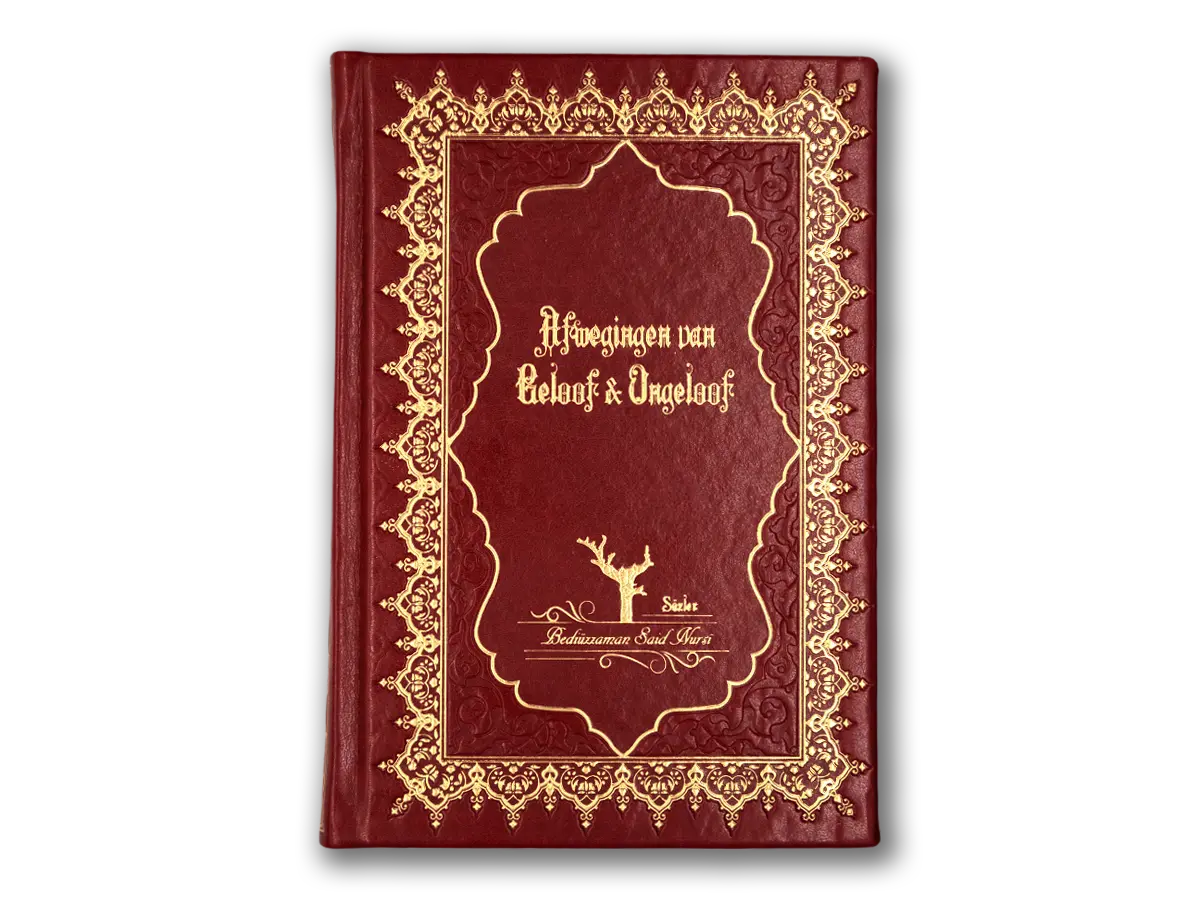
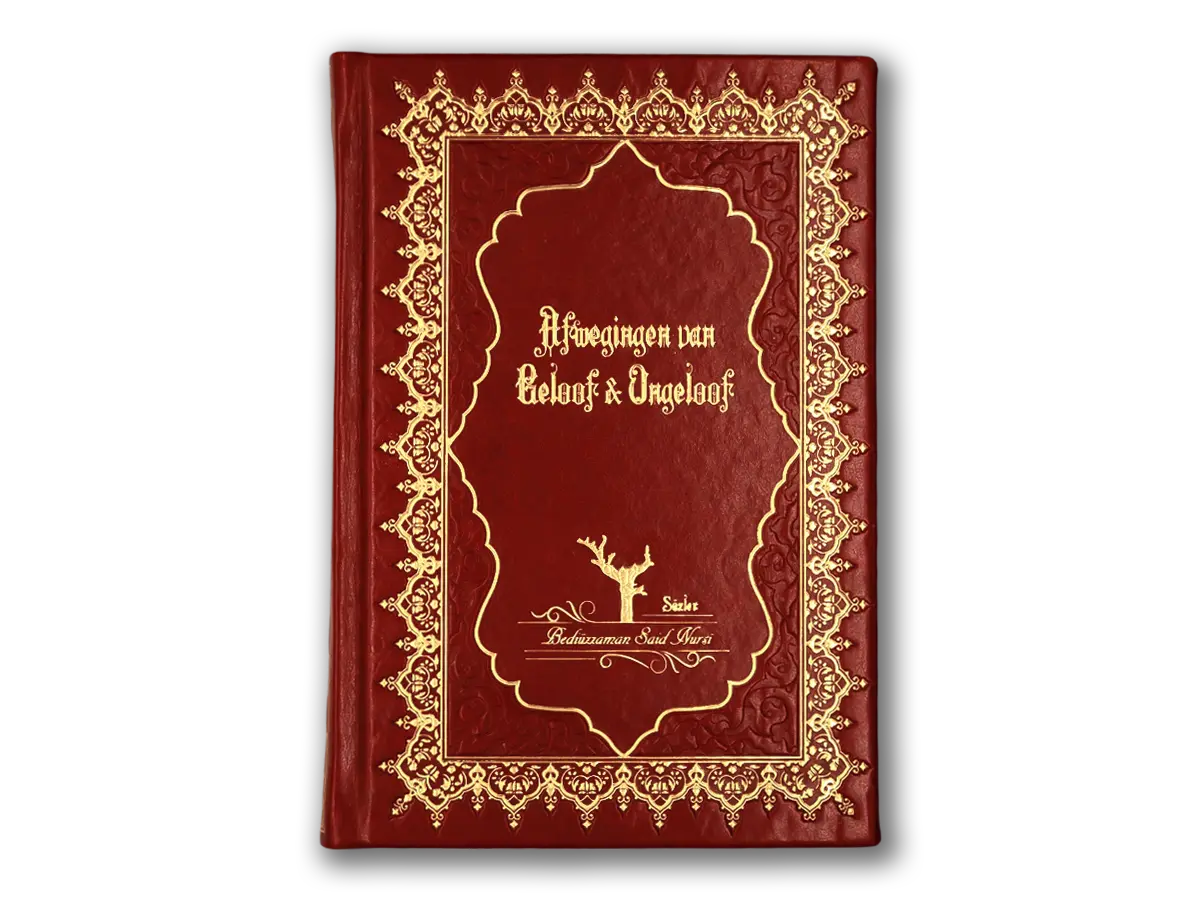
Added new book covers

Changed region(s): [[0.2775, 0.0622, 0.74, 0.9333], [0.4625, 0.1867, 0.4933, 0.2178]]

diff --git a/resources/css/front-end-components/shop-page.css b/resources/css/front-end-components/shop-page.css
@@ -73,10 +73,10 @@ body:has(.page.shop) {
     content: '';
     position: absolute;
     inset: 0;
-    background:
-        /* subtle corner darkening only — lets the leather colour breathe */
-        radial-gradient(ellipse 120% 95% at 50% 50%,
-            transparent 40%, rgba(0, 0, 0, 0.18) 100%);
+    /*background:*/
+    /*    !* subtle corner darkening only — lets the leather colour breathe *!*/
+    /*    radial-gradient(ellipse 120% 95% at 50% 50%,*/
+    /*        transparent 40%, rgba(0, 0, 0, 0.18) 100%);*/
     pointer-events: none;
     z-index: 0;
 }
